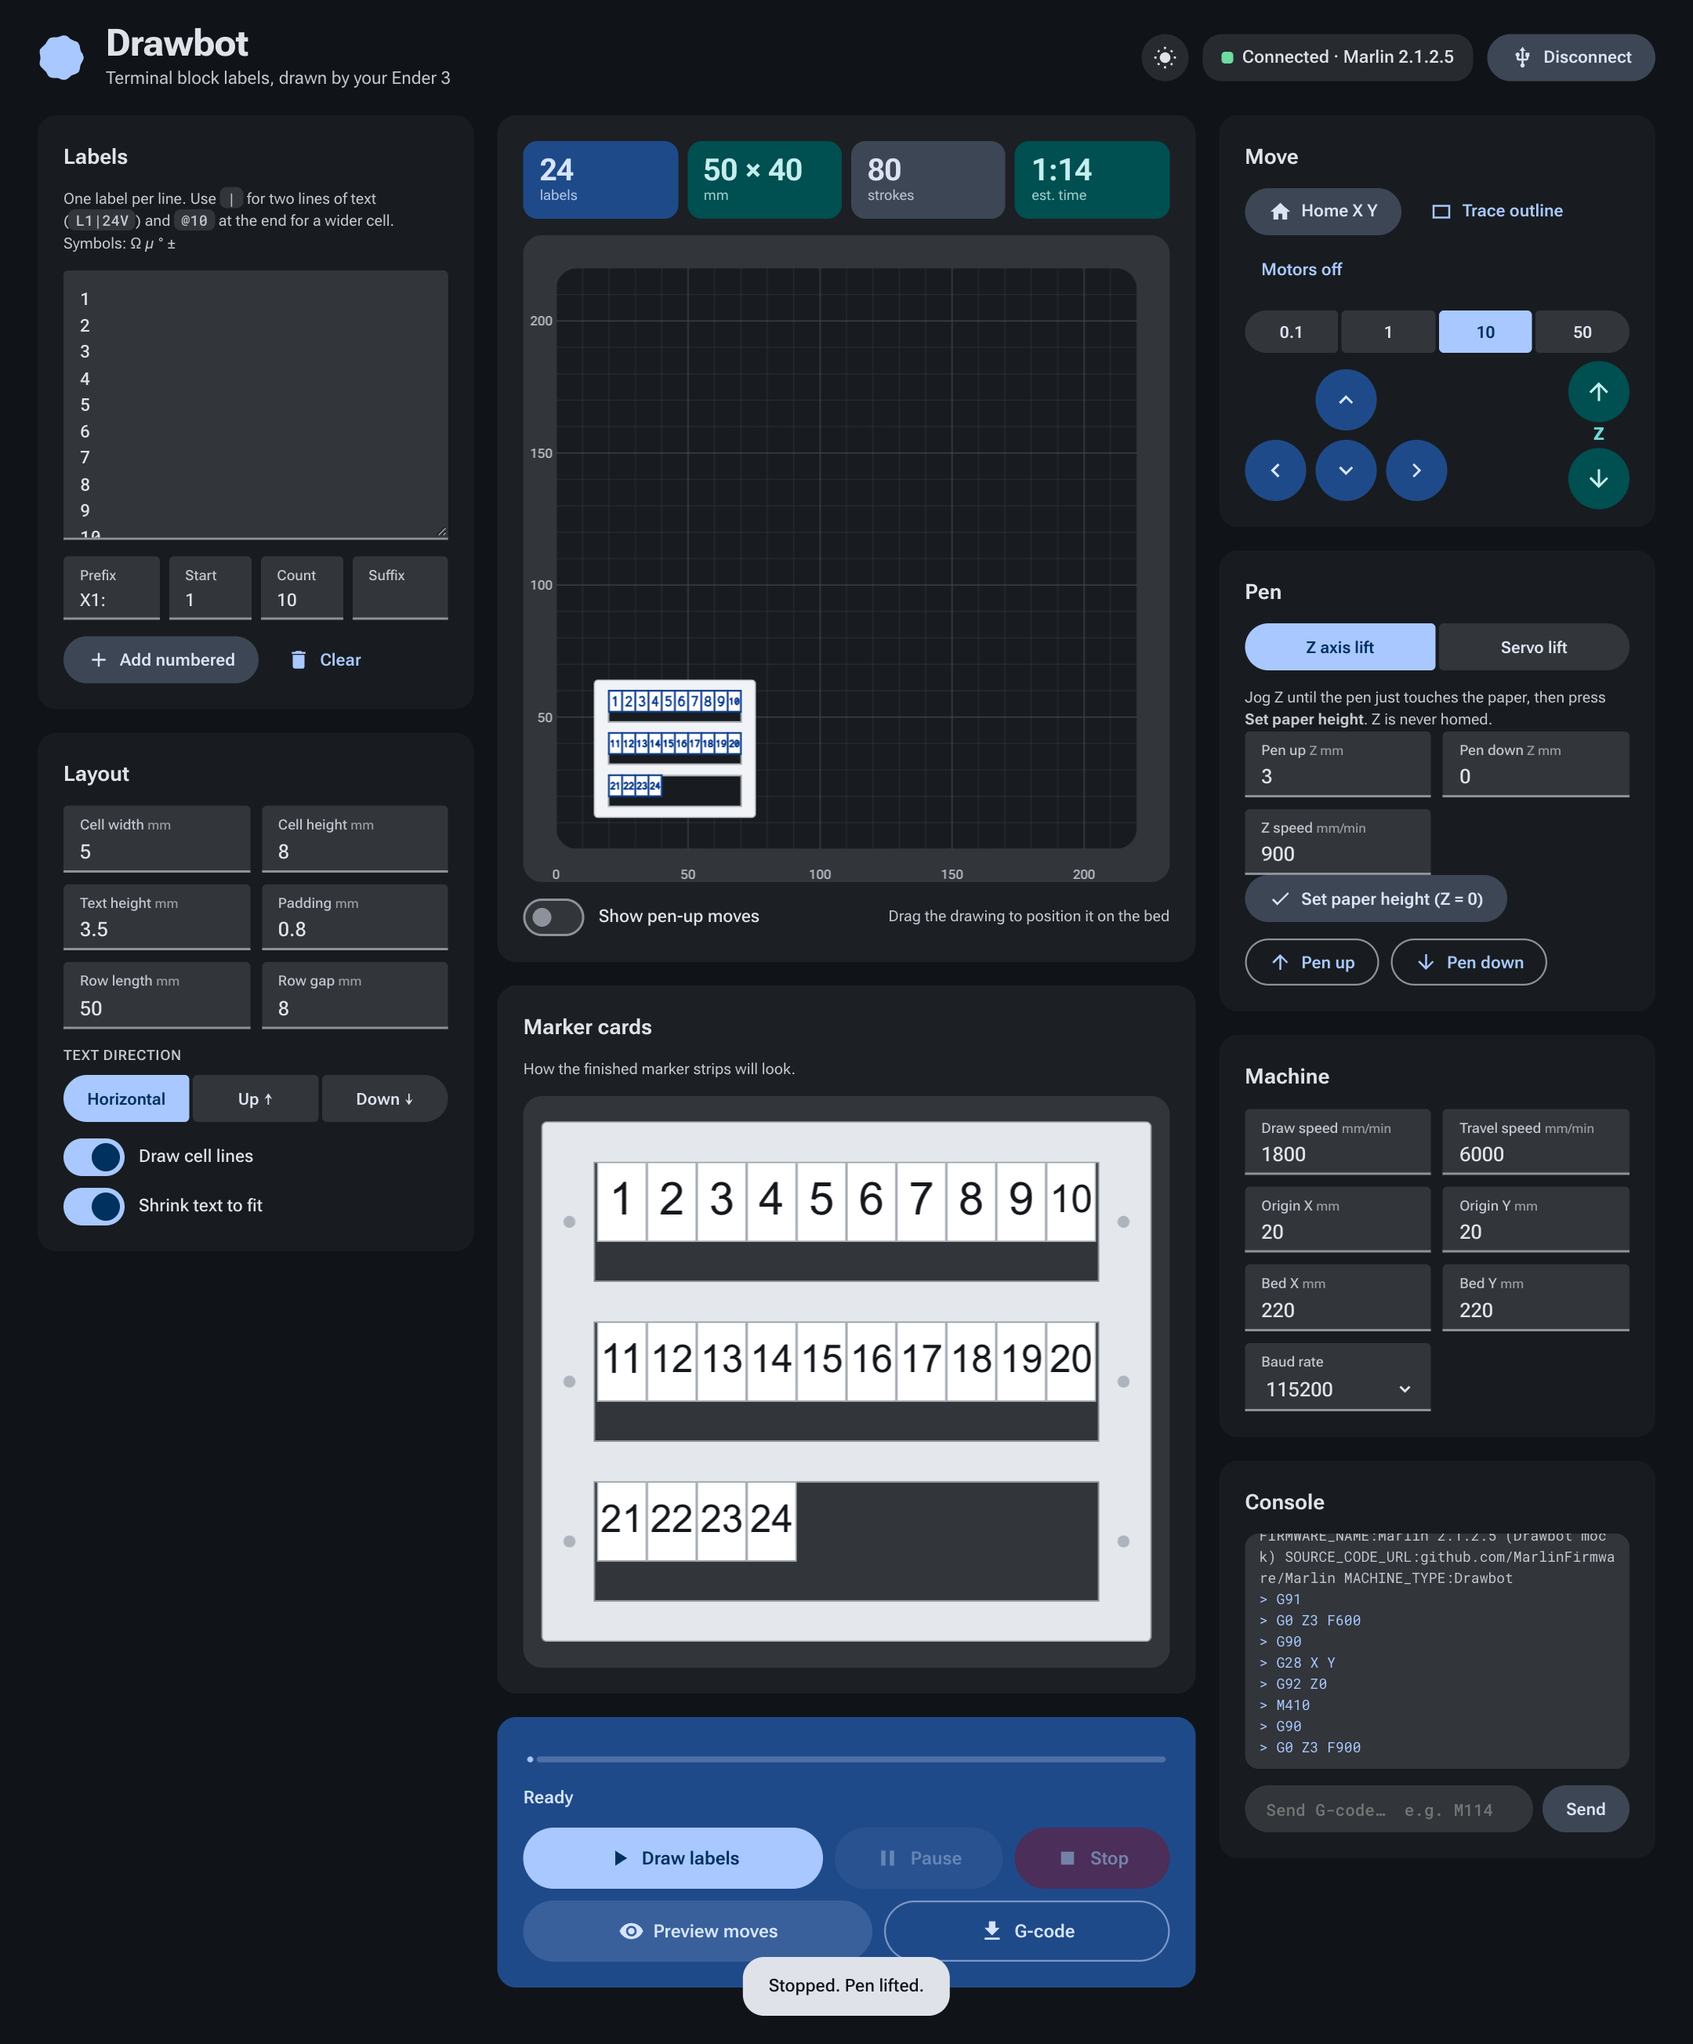
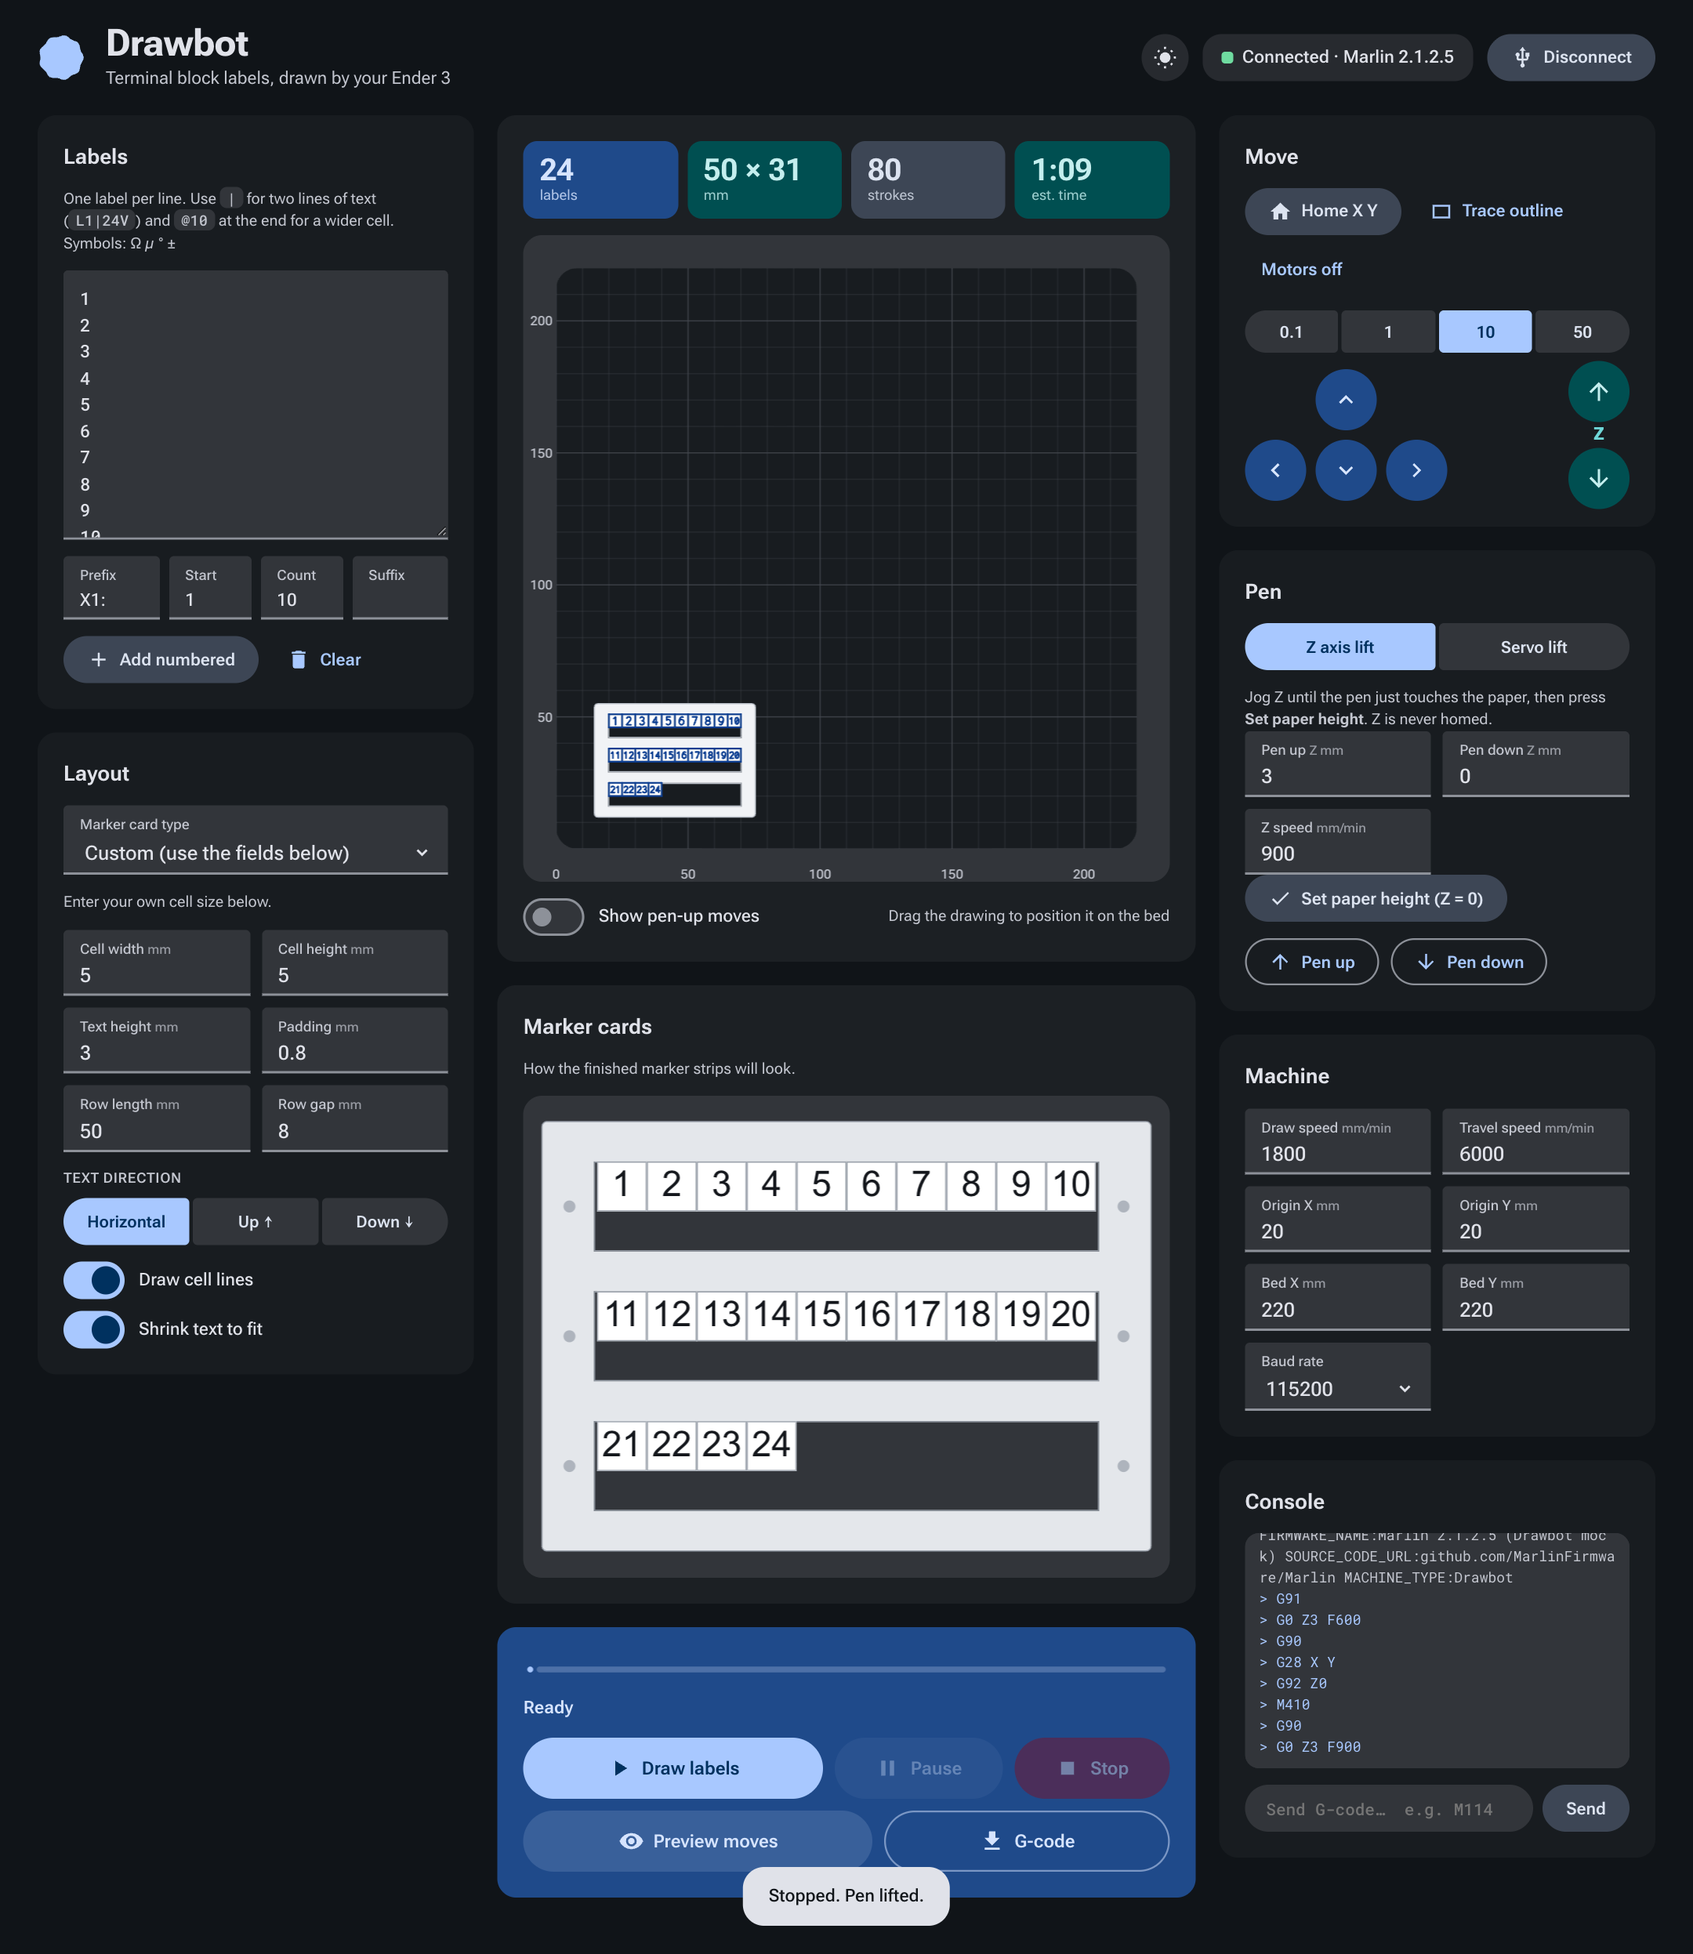
Add marker card type presets (Weidmueller DEK, Phoenix ZB/ZBF) with datasheet sizes

diff --git a/web/app.js b/web/app.js
@@ -36,7 +36,7 @@
 
   function save() {
     const o = { labels: $('labels').value, seg: {} };
-    NUM_IDS.concat(['genPrefix', 'genStart', 'genCount', 'genSuffix', 'baud']).forEach(i => (o[i] = $(i).value));
+    NUM_IDS.concat(['genPrefix', 'genStart', 'genCount', 'genSuffix', 'baud', 'cardType']).forEach(i => (o[i] = $(i).value));
     CHECK_IDS.forEach(i => (o[i] = $(i).checked));
     Object.keys(SEGS).forEach(i => (o.seg[i] = segVal(i)));
     try { localStorage.setItem(SAVE_KEY, JSON.stringify(o)); } catch (e) { /* private mode */ }
@@ -46,7 +46,7 @@
     let o; try { o = JSON.parse(localStorage.getItem(SAVE_KEY) || 'null'); } catch (e) { o = null; }
     if (!o) return;
     if (typeof o.labels === 'string') $('labels').value = o.labels;
-    NUM_IDS.concat(['genPrefix', 'genStart', 'genCount', 'genSuffix', 'baud']).forEach(i => { if (o[i] !== undefined) $(i).value = o[i]; });
+    NUM_IDS.concat(['genPrefix', 'genStart', 'genCount', 'genSuffix', 'baud', 'cardType']).forEach(i => { if (o[i] !== undefined) $(i).value = o[i]; });
     CHECK_IDS.forEach(i => { if (o[i] !== undefined) $(i).checked = o[i]; });
     Object.entries(o.seg || {}).forEach(([id, v]) => setSeg(id, v));
   }
@@ -127,6 +127,31 @@
   // Measured from the physical marker cards (see README): white ladder frame, each strip hangs from the
   // crossbar above it, a slot below it, and a rail down each side.  All values in mm.
   const CARD = { rail: 5.5, slot: 4, clear: 0.3 };
+  // Marker variants. w = pitch (mm), h = marker height (mm); `src` = where the numbers come from.
+  // Frame (rail/slot/gap) is only measured for the Weidmüller DEK 5 FW cards in the photos; the others reuse it.
+  const WEID = 'Weidmüller datasheet (eshop.weidmueller.com)', PHX = 'Phoenix Contact product page (phoenixcontact.com)';
+  const CARDS = {
+    'dek5fw':   { name: 'Weidmüller DEK 5 FW  (5 × 5, horizontal)', w: 5,   h: 5,    rot: 0,  src: WEID, note: 'Pitch 5.00 mm, 10 markers per strip.' },
+    'dek5-35':  { name: 'Weidmüller DEK 5/3,5 MC FWZ  (3.5 × 5)',   w: 3.5, h: 5,    rot: 0,  src: WEID, note: 'Pitch 3.50 mm, 5 mm high.' },
+    'zb5':      { name: 'Phoenix ZB 5  (5.2 × 10.5)',               w: 5.2, h: 10.5, rot: 90, src: PHX,  note: 'Zack strip, pitch 5.2 mm, text field 5.1 × 10.5 mm, 10 per strip.' },
+    'zb6':      { name: 'Phoenix ZB 6  (6.2 × 10.5)',               w: 6.2, h: 10.5, rot: 90, src: PHX,  note: 'Pitch 6.2 mm, text field 6.15 × 10.5 mm.' },
+    'zb8':      { name: 'Phoenix ZB 8  (8.2 × 10.5)',               w: 8.2, h: 10.5, rot: 0,  src: PHX,  note: 'Pitch 8.2 mm, text field 7 × 10.5 mm.' },
+    'zb10':     { name: 'Phoenix ZB 10  (10.2 × 10.5)',             w: 10.2, h: 10.5, rot: 0, src: PHX,  note: 'Pitch 10.2 mm, text field 10.15 × 10.5 mm.' },
+    'zbf5':     { name: 'Phoenix ZBF 5  (5.15 × 6.4, flat)',        w: 5.15, h: 6.4, rot: 0, src: PHX,  note: 'Flat strip, depth 1.6 mm, text field 5.15 × 5.15 mm.' },
+    'zbf6':     { name: 'Phoenix ZBF 6  (6.15 × 6.4, flat)',        w: 6.15, h: 6.4, rot: 0, src: PHX,  note: 'Flat strip, text field 5.15 × 6.15 mm.' },
+    'zbf8':     { name: 'Phoenix ZBF 8  (8.15 × 6.4, flat)',        w: 8.15, h: 6.4, rot: 0, src: PHX,  note: 'Flat strip, text field 5.15 × 8.15 mm.' },
+    'custom':   { name: 'Custom (use the fields below)' },
+  };
+  $('cardType').innerHTML = Object.entries(CARDS).map(([k, v]) => `<option value="${k}">${v.name}</option>`).join('');
+  function applyCard(key) {
+    const c = CARDS[key]; $('cardNote').textContent = c && c.src ? `${c.note} Source: ${c.src}. Frame size is estimated.` : 'Enter your own cell size below.';
+    if (!c || !c.w) return;
+    $('cellW').value = c.w; $('cellH').value = c.h;
+    $('textH').value = Math.min(3.5, +(c.h * 0.6).toFixed(1)); $('pad').value = 0.6;
+    $('rowLen').value = +(c.w * 10).toFixed(1);
+    setSeg('rotSeg', c.rot);
+  }
+  $('cardType').addEventListener('change', () => { applyCard($('cardType').value); relayout(); save(); });
   function cardShape(d, rowGap) {
     const cells = d.cells || [];
     if (!cells.length) return null;
@@ -481,6 +506,8 @@
     .forEach(id => $(id).addEventListener('input', () => { regen(); save(); }));
 
   load(); syncMode();
+  { const c = CARDS[$('cardType').value]; $('cardNote').textContent = c && c.src ? `${c.note} Source: ${c.src}. Frame size is estimated.` : 'Enter your own cell size below.'; }
+  ['cellW', 'cellH'].forEach(id => $(id).addEventListener('input', () => { $('cardType').value = 'custom'; $('cardNote').textContent = 'Enter your own cell size below.'; }));
   Object.keys(SEGS).forEach(id => setSeg(id, segVal(id)));
   relayout(); kickWave();
   window.DBApp = { state, settings, printer };

diff --git a/tests/e2e.js b/tests/e2e.js
@@ -23,7 +23,7 @@ const sleep = ms => new Promise(r => setTimeout(r, ms));
 const DATASETS = [
   { id: 'numbered', title: 'Numbered marker strips, 5 mm cells',
     labels: Array.from({ length: 24 }, (_, i) => String(i + 1)).join('\n'),
-    num: { cellW: 5, cellH: 8, textH: 3.5, rowLen: 50, rowGap: 8 }, seg: { rotSeg: '0', modeSeg: 'z' } },
+    num: { cellW: 5, cellH: 5, textH: 3, rowLen: 50, rowGap: 8 }, seg: { rotSeg: '0', modeSeg: 'z' } },
   { id: 'symbols', title: 'Mixed symbols and two-line labels',
     labels: 'L1|24V\nL2|24V\n0V\nPE@8\n10kΩ\n4.7µF\n±5%\n85°C\nA-B/C\n(IN)+\n#7 &8', num: { cellW: 9, cellH: 14, textH: 3.5 }, seg: { rotSeg: '90', modeSeg: 'z' } },
   { id: 'horizontal', title: 'Horizontal text in wide cells',
@@ -226,6 +226,17 @@ async function runDataset(browser, ds, i) {
 
   // 6. Dark theme + mobile
   page = await setup(browser, { dark: false, ds: DATASETS[1] }); await shot(page, '09-light-theme'); await page.close();
+  // Card type presets
+  page = await setup(browser);
+  await page.select('#cardType', 'zb5'); await sleep(200);
+  const zb = await page.evaluate(() => ['cellW', 'cellH', 'rowLen'].map(i => document.getElementById(i).value).join(','));
+  check('Card types', 'Phoenix ZB 5 preset sets 5.2 x 10.5 mm cells, 52 mm row', zb === '5.2,10.5,52', zb);
+  await page.select('#cardType', 'dek5fw'); await sleep(200);
+  const dk = await page.evaluate(() => ['cellW', 'cellH', 'rowLen'].map(i => document.getElementById(i).value).join(','));
+  check('Card types', 'Weidmuller DEK 5 FW preset sets 5 x 5 mm cells, 50 mm row', dk === '5,5,50', dk);
+  check('Card types', 'all variants listed', (await page.$$eval('#cardType option', o => o.length)) >= 10);
+  await page.close();
+
   // Move preview: animates every pen-up travel and pen-down stroke
   page = await setup(browser, { ds: DATASETS[1] });
   await page.click('#btnPreview'); await sleep(2500);

diff --git a/web/index.html b/web/index.html
@@ -70,9 +70,12 @@
 
     <article class="card">
       <h2>Layout</h2>
+      <label class="field"><span>Marker card type</span>
+        <select id="cardType"></select></label>
+      <p class="hint" id="cardNote"></p>
       <div class="fields">
         <label class="field"><span>Cell width <small>mm</small></span><input id="cellW" type="number" step="0.1" value="5"></label>
-        <label class="field"><span>Cell height <small>mm</small></span><input id="cellH" type="number" step="0.1" value="8"></label>
+        <label class="field"><span>Cell height <small>mm</small></span><input id="cellH" type="number" step="0.1" value="5"></label>
         <label class="field"><span>Text height <small>mm</small></span><input id="textH" type="number" step="0.1" value="3.5"></label>
         <label class="field"><span>Padding <small>mm</small></span><input id="pad" type="number" step="0.1" value="0.8"></label>
         <label class="field"><span>Row length <small>mm</small></span><input id="rowLen" type="number" step="1" value="50"></label>

diff --git a/docs/TEST_RESULTS.md b/docs/TEST_RESULTS.md
@@ -2,7 +2,7 @@
 
 Generated by `tests/e2e.js` (headless Chrome → real UI → simulated Marlin, `?mock` demo mode).
 
-**69/69 checks passed.**
+**72/72 checks passed.**
 
 ## UI
 
@@ -16,14 +16,14 @@ Generated by `tests/e2e.js` (headless Chrome → real UI → simulated Marlin, `
 
 | | Check | Detail |
 |---|---|---|
-| ✅ | layout produced every label | (24/24 labels, 80 strokes, 675 mm of ink) |
-| ✅ | design fits on the bed | (50×40 mm at 20,20) |
+| ✅ | layout produced every label | (24/24 labels, 80 strokes, 584 mm of ink) |
+| ✅ | design fits on the bed | (50×31 mm at 20,20) |
 | ✅ | connected and detected Marlin | ("Connected · Marlin 2.1.2.5") |
-| ✅ | every G-code line was acknowledged | (773/773 commands in 0.1s) |
+| ✅ | every G-code line was acknowledged | (741/741 commands in 0.1s) |
 | ✅ | never overflowed Marlin's 128-byte RX buffer | (peak 74 bytes, 0 overflows) |
-| ✅ | ink length matches design | (675.3 mm drawn vs 675.2 mm designed) |
+| ✅ | ink length matches design | (583.6 mm drawn vs 583.5 mm designed) |
 | ✅ | one pen-down per stroke | (80/80) |
-| ✅ | drawn bounding box lands at the origin offset | (X 20.0–70.0, Y 20.0–60.0 mm; max error 0.000 mm) |
+| ✅ | drawn bounding box lands at the origin offset | (X 20.0–70.0, Y 20.0–51.0 mm; max error 0.000 mm) |
 | ✅ | pen lifted and parked at the end | (pos 0,220, pen up) |
 | ✅ | no JS errors in the page |  |
 
@@ -70,7 +70,7 @@ Generated by `tests/e2e.js` (headless Chrome → real UI → simulated Marlin, `
 | ✅ | layout produced every label | (40/40 labels, 133 strokes, 1294 mm of ink) |
 | ✅ | design fits on the bed | (100×28 mm at 20,20) |
 | ✅ | connected and detected Marlin | ("Connected · Marlin 2.1.2.5") |
-| ✅ | every G-code line was acknowledged | (2110/2110 commands in 0.3s) |
+| ✅ | every G-code line was acknowledged | (2110/2110 commands in 0.2s) |
 | ✅ | never overflowed Marlin's 128-byte RX buffer | (peak 78 bytes, 0 overflows) |
 | ✅ | ink length matches design | (1293.7 mm drawn vs 1293.6 mm designed) |
 | ✅ | one pen-down per stroke | (133/133) |
@@ -85,13 +85,13 @@ Generated by `tests/e2e.js` (headless Chrome → real UI → simulated Marlin, `
 | | Check | Detail |
 |---|---|---|
 | ✅ | layout produced every label | (1/1 labels, 2 strokes, 9 mm of ink) |
-| ✅ | design fits on the bed | (5×8 mm at 20,20) |
+| ✅ | design fits on the bed | (5×5 mm at 20,20) |
 | ✅ | connected and detected Marlin | ("Connected · Marlin 2.1.2.5") |
-| ✅ | every G-code line was acknowledged | (14/14 commands in 0.0s) |
-| ✅ | never overflowed Marlin's 128-byte RX buffer | (peak 68 bytes, 0 overflows) |
+| ✅ | every G-code line was acknowledged | (14/14 commands in 0.1s) |
+| ✅ | never overflowed Marlin's 128-byte RX buffer | (peak 70 bytes, 0 overflows) |
 | ✅ | ink length matches design | (8.5 mm drawn vs 8.5 mm designed) |
 | ✅ | one pen-down per stroke | (2/2) |
-| ✅ | drawn bounding box lands at the origin offset | (X 20.8–24.2, Y 22.9–25.1 mm; max error 0.003 mm) |
+| ✅ | drawn bounding box lands at the origin offset | (X 20.8–24.2, Y 21.4–23.6 mm; max error 0.003 mm) |
 | ✅ | pen lifted and parked at the end | (pos 0,220, pen up) |
 | ✅ | no JS errors in the page |  |
 
@@ -99,9 +99,9 @@ Generated by `tests/e2e.js` (headless Chrome → real UI → simulated Marlin, `
 
 | | Check | Detail |
 |---|---|---|
-| ✅ | no commands run while paused | (284 → 284) |
+| ✅ | no commands run while paused | (274 → 274) |
 | ✅ | UI reports Done only after the last command executed |  |
-| ✅ | job completes after resume with correct ink | (675.3 vs 675.2 mm) |
+| ✅ | job completes after resume with correct ink | (583.6 vs 583.5 mm) |
 
 ## Stop
 
@@ -130,6 +130,14 @@ Generated by `tests/e2e.js` (headless Chrome → real UI → simulated Marlin, `
 |---|---|---|
 | ✅ | warns about off-bed drawing, unhomed axes and unset Z |  |
 | ✅ | Cancel sends nothing |  |
+
+## Card types
+
+| | Check | Detail |
+|---|---|---|
+| ✅ | Phoenix ZB 5 preset sets 5.2 x 10.5 mm cells, 52 mm row | 5.2,10.5,52 |
+| ✅ | Weidmuller DEK 5 FW preset sets 5 x 5 mm cells, 50 mm row | 5,5,50 |
+| ✅ | all variants listed |  |
 
 ## Preview
 

diff --git a/README.md b/README.md
@@ -59,6 +59,6 @@ On 4.2.x boards, if compile complains about a missing sensor with `TEMP_SENSOR_0
 
 ## Label syntax
 One label per line · `L1|24V` = two text lines · `PE@8` = 8 mm wide cell · **Add numbered** generates `X1:1…`.
-Font is a built-in single-stroke font (A–Z, 0–9, `- + = . , : / ( ) % & # @ Ω µ ° ±`…). Defaults match the physical marker cards: 5 × 8 mm cells, 10 per strip, 16 mm strip pitch, horizontal text; the preview draws the ladder frame (5.5 mm rails, slots, crossbars) estimated from photos — adjust `CARD` in `web/app.js` if your cards differ; switch to Up/Down for narrower cells. The bed preview draws the white cards with the pen strokes on them, the **Marker cards** panel shows the finished strips, and **Preview moves** animates every pen-down stroke and pen-up travel (dashed) without touching the printer.
+Font is a built-in single-stroke font (A–Z, 0–9, `- + = . , : / ( ) % & # @ Ω µ ° ±`…). Pick a **Marker card type** (Weidmüller DEK 5 FW and DEK 5/3,5; Phoenix ZB 5/6/8/10 and flat ZBF 5/6/8 — sizes from the manufacturers' product pages) or enter your own cell size. Default is DEK 5 FW: 5 × 5 mm cells, 10 per strip; the preview draws the ladder frame (5.5 mm rails, slots, crossbars) estimated from photos — adjust `CARD` in `web/app.js` if your cards differ; switch to Up/Down for narrower cells. The bed preview draws the white cards with the pen strokes on them, the **Marker cards** panel shows the finished strips, and **Preview moves** animates every pen-down stroke and pen-up travel (dashed) without touching the printer.
 
 Stop sends `M410` and lifts the pen. Settings persist in the browser. **Not tested against a real printer** — try a dry run with the pen up first.
